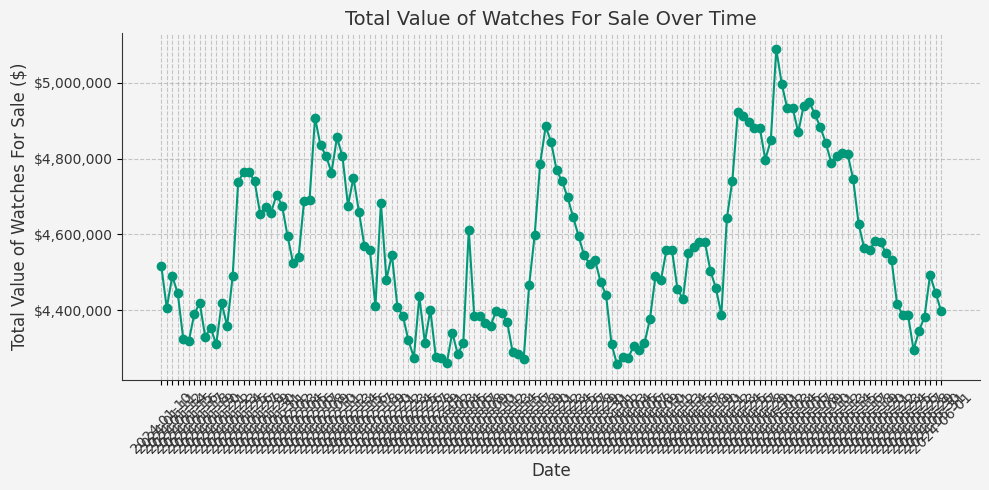
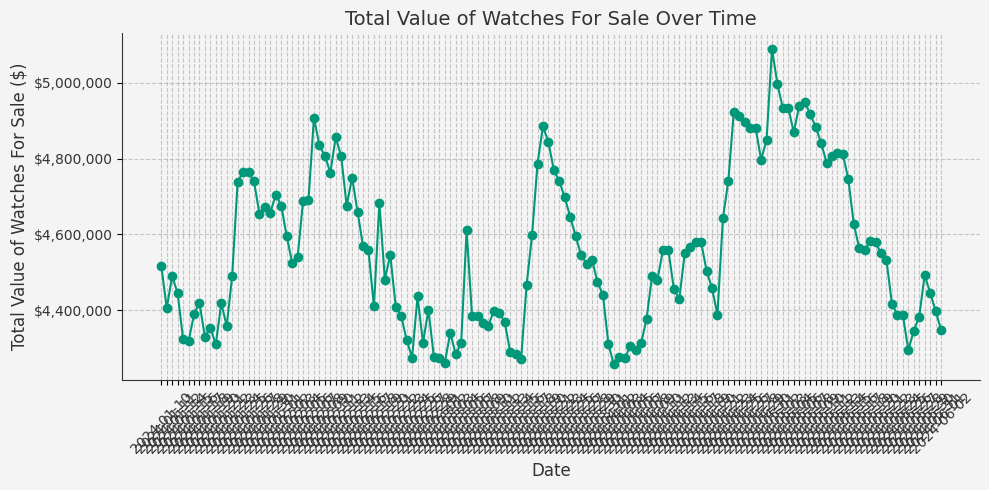
Update docs, portfolio image and portfolio statistics

Changed region(s): [[0.182, 0.0612, 0.9707, 0.949]]

diff --git a/docs/index.html b/docs/index.html
@@ -54,12 +54,12 @@
     </style>
 </head>
 <body>
-    <h1>Watch Data Report - 2024-06-01</h1>
+    <h1>Watch Data Report - 2024-06-02</h1>
     <div class="stats">
         <h3>Summary Statistics</h3>
-        <p>Value of sold Watches: $41,200.00</p>
+        <p>Value of sold Watches: $49,550.00</p>
         <p>Value of listed Watches: $0.00</p>
-        <p>Value of unsold Watches: $4,399,100.00</p>
+        <p>Value of unsold Watches: $4,349,550.00</p>
     </div>
     <h2>Price Changes Today:</h2>
     <table border="1" class="dataframe table">
@@ -72,36 +72,6 @@
     </tr>
   </thead>
   <tbody>
-    <tr>
-      <td>1979 Rolex 18K Yg Submariner 1680 Tropical Dial</td>
-      <td>$43,350.00</td>
-      <td>$42,850.00</td>
-      <td><a href="https://tropicalwatch.com/watches/7tdx" target="_blank">Link</a></td>
-    </tr>
-    <tr>
-      <td>1962 Rolex 14K Yg Chronograph 6234 Silver Underline Dial</td>
-      <td>$73,850.00</td>
-      <td>$69,550.00</td>
-      <td><a href="https://tropicalwatch.com/watches/uak6" target="_blank">Link</a></td>
-    </tr>
-    <tr>
-      <td>1973 Rolex 18K Yg Day-Date 1807 Silver "Qaboos" Dial</td>
-      <td>$26,350.00</td>
-      <td>$25,750.00</td>
-      <td><a href="https://tropicalwatch.com/watches/20qa" target="_blank">Link</a></td>
-    </tr>
-    <tr>
-      <td>1981 Audemars Piguet 18K Yg Royal Oak 5402Ba Grey Dial With Box And Service Papers</td>
-      <td>$79,550.00</td>
-      <td>$78,550.00</td>
-      <td><a href="https://tropicalwatch.com/watches/kosl" target="_blank">Link</a></td>
-    </tr>
-    <tr>
-      <td>Tudor Heritage Chrono 70330N Black Dial</td>
-      <td>$3,650.00</td>
-      <td>$3,550.00</td>
-      <td><a href="https://tropicalwatch.com/watches/ky3o" target="_blank">Link</a></td>
-    </tr>
   </tbody>
 </table>
 
@@ -129,14 +99,19 @@
   </thead>
   <tbody>
     <tr>
-      <td>2002 Patek Philippe Aquanaut 5066A With Papers</td>
+      <td>1987 Rolex Submariner 5513 Spider Dial</td>
       <td>Sold</td>
-      <td><a href="https://tropicalwatch.com/watches/zibw" target="_blank">Link</a></td>
+      <td><a href="https://tropicalwatch.com/watches/o11t" target="_blank">Link</a></td>
     </tr>
     <tr>
-      <td>1999 Rolex Air-King 14000 Domino'S Pizza Dial</td>
+      <td>2024 Rolex Daytona 126500Ln Black Dial With Box And Papers</td>
       <td>Sold</td>
-      <td><a href="https://tropicalwatch.com/watches/g74x" target="_blank">Link</a></td>
+      <td><a href="https://tropicalwatch.com/watches/6ypp" target="_blank">Link</a></td>
+    </tr>
+    <tr>
+      <td>1991 Rolex Gmt-Master 16700</td>
+      <td>Sold</td>
+      <td><a href="https://tropicalwatch.com/watches/brl8" target="_blank">Link</a></td>
     </tr>
   </tbody>
 </table>
